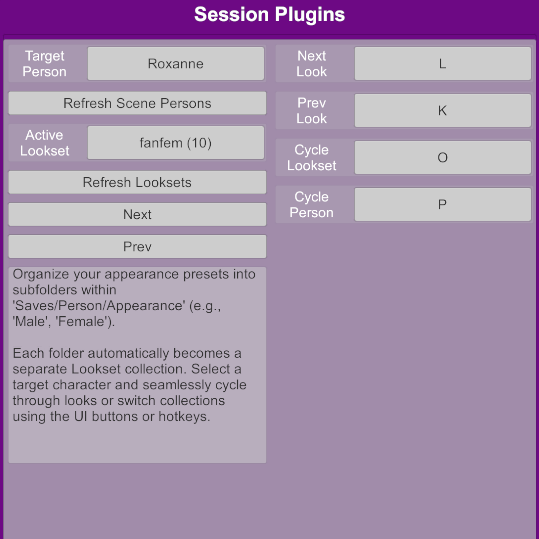
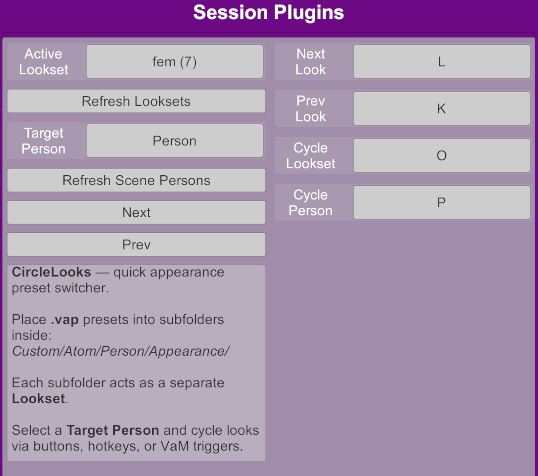
2026-011-14 01

diff --git a/_tools.cs b/_tools.cs
@@ -74,9 +74,14 @@ namespace GRomVAM
         public bool TestActivedInputField()
         {
             var eventSystem1 = UnityEngine.EventSystems.EventSystem.current;
-            if (eventSystem1?.currentSelectedGameObject?.GetComponent<UnityEngine.UI.InputField>() != null)
-                return true;
-            return false;
+            if (eventSystem1 == null)
+                return false;
+
+            var selectedGO1 = eventSystem1.currentSelectedGameObject;
+            if (selectedGO1 == null)
+                return false;
+
+            return selectedGO1.GetComponent<UnityEngine.UI.InputField>() != null;
         }
 
 
